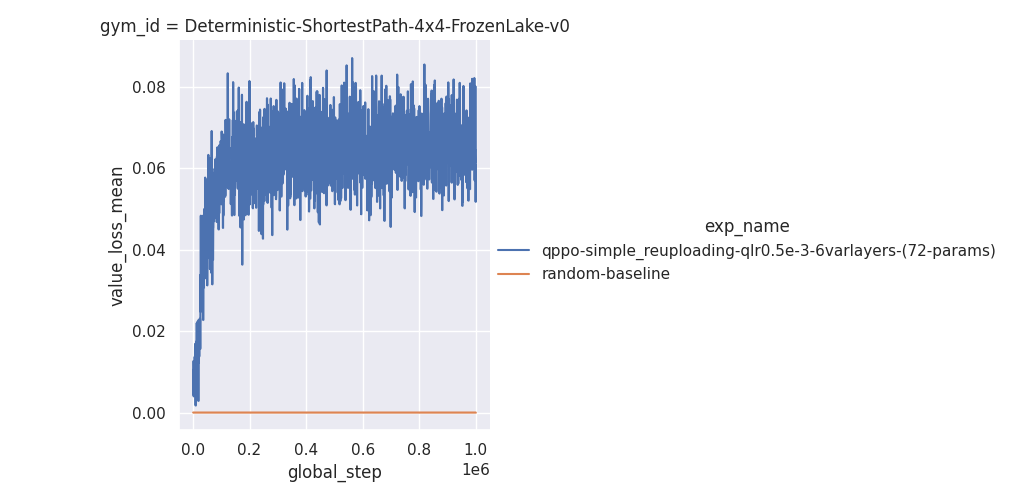
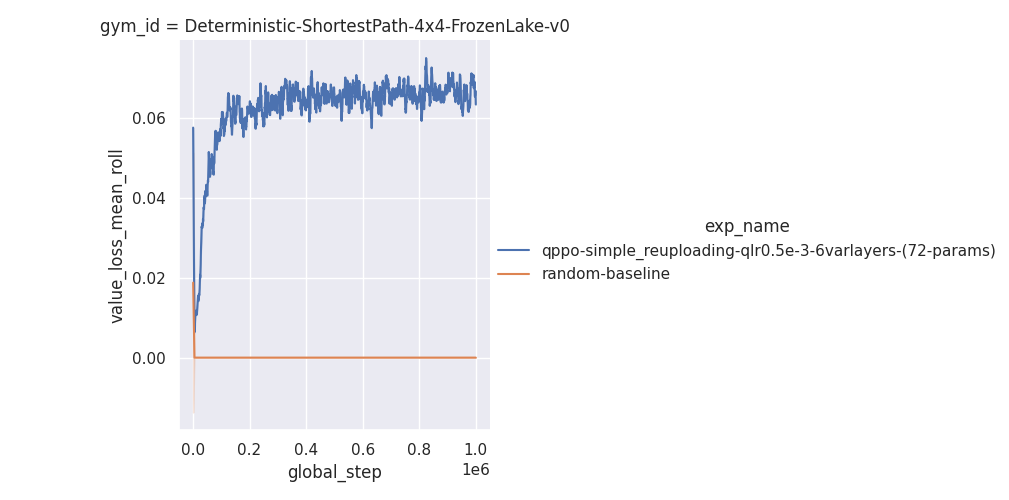
plot tests

diff --git a/src/plot.py b/src/plot.py
@@ -609,6 +609,7 @@ def plot_test_avg3(results_dir, plot_dir, gym_id, exp_names, seeds, stepsize, ma
     up_res = pd.concat(up_res_df_list, ignore_index=True)
     #value_loss_exp_name = up_res.groupby(['exp_name', 'global_step'])['value_loss'].mean()
     up_res['value_loss_mean'] = up_res.groupby(['exp_name', 'global_step'], sort=False)['value_loss'].transform('mean')
+    up_res['value_loss_mean_roll'] = up_res['value_loss_mean'].rolling(10).mean()
     #print(value_loss_exp_name)
     #value_loss_seed = up_res.groupby(["exp_name", "seed", "global_step"])["value_loss"].mean()
     up_res['value_loss_seed_mean'] = up_res.groupby(['exp_name', "seed", 'global_step'], sort=False)['value_loss'].transform('mean')
@@ -616,7 +617,7 @@ def plot_test_avg3(results_dir, plot_dir, gym_id, exp_names, seeds, stepsize, ma
     
     #up_res_avg = avg_update_results(up_res, gym_id, exp_names, stepsize, max_steps)
 
-    #.rolling(30).mean()
+    #
 
     # check if plot_dir exists
     pathExists = os.path.exists(plot_dir)
@@ -632,7 +633,7 @@ def plot_test_avg3(results_dir, plot_dir, gym_id, exp_names, seeds, stepsize, ma
         data=up_res,
         kind="line",
         x="global_step",
-        y="value_loss_mean",
+        y="value_loss_mean_roll",
         col="gym_id",
         hue="exp_name",
         errorbar="sd",
